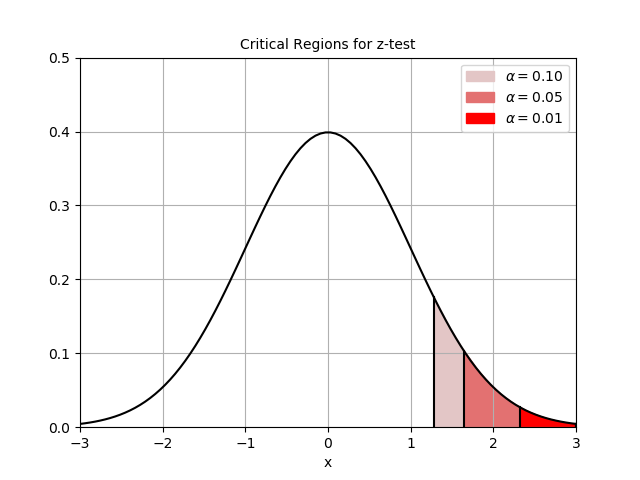
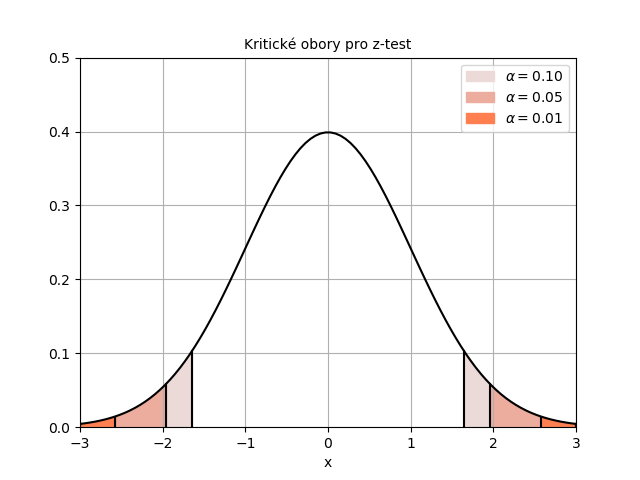
Update of colours

diff --git a/statistical_hypothesis_testing/plots/plots_z_test.py b/statistical_hypothesis_testing/plots/plots_z_test.py
@@ -11,7 +11,7 @@ def create_critical_region_plot(alphas=[0.05, ], tails=Tail.TWO_TAILED, x_min=-3
     alphas = sorted(alphas, reverse=True)
     x_max = x_min * (-1)
 
-    red = Color("red")
+    red = Color("#FF7F50")
     colors = list(red.range_to(Color("white"),len(alphas)+1))
     alphas_with_colors = [(alphas[i], colors[-i-2]) for i in range(0, len(alphas))] 
 
@@ -50,13 +50,13 @@ def create_critical_region_plot(alphas=[0.05, ], tails=Tail.TWO_TAILED, x_min=-3
     plt.xlim(x_min,x_max)
     plt.ylim(0,y_max)
 
-    plt.title('Critical Regions for z-test',fontsize=10)
+    plt.title('Kritické obory pro z-test',fontsize=10)
     plt.xlabel('x')
 
     plt.savefig("z_test_critical_region.png")
     plt.show()
 
-def create_p_value_plot(statistics,alpha=0.05, tails=Tail.TWO_TAILED, x_min=-3, y_max=0.5):
+def create_p_value_plot(statistics,alpha=0.05, tails=Tail.TWO_TAILED, x_min=-3, y_max=0.5, lang='en'):
     x_max = x_min * (-1)
 
     x = np.linspace(x_min, x_max, 100)
@@ -75,32 +75,35 @@ def create_p_value_plot(statistics,alpha=0.05, tails=Tail.TWO_TAILED, x_min=-3, 
 
         plt.fill_between(ptx, pty, facecolor=color, alpha='1.0', hatch=hatch, edgecolor=edgecolor)
 
-
-    legend_patches = []
-
     if tails == Tail.TWO_TAILED:
-        generate_area(x_min, norm.ppf(alpha/2), 'red')
-        generate_area(norm.ppf(1 - alpha/2), x_max, 'red')
-        generate_area(x_min, -abs(statistics), 'none', hatch='///', edgecolor='blue')
-        generate_area(abs(statistics), x_max, 'none', hatch='///', edgecolor='blue')
+        generate_area(x_min, norm.ppf(alpha/2), '#FF7F50')
+        generate_area(norm.ppf(1 - alpha/2), x_max, '#FF7F50')
+        generate_area(x_min, -abs(statistics), 'none', hatch='///', edgecolor='#5B84B1FF')
+        generate_area(abs(statistics), x_max, 'none', hatch='///', edgecolor='#5B84B1FF')
     elif tails == Tail.LEFT_TAILED:
-        generate_area(x_min, norm.ppf(alpha), 'red')
-        generate_area(x_min, statistics, 'none', hatch='///', edgecolor='blue')
+        generate_area(x_min, norm.ppf(alpha), '#FF7F50')
+        generate_area(x_min, statistics, 'none', hatch='///', edgecolor='#5B84B1FF')
     elif tails == Tail.RIGHT_TAILED:
-        generate_area(norm.ppf(1 - alpha), x_max, 'red')
-        generate_area(statistics, x_max, 'none', hatch='///', edgecolor='blue')
+        generate_area(norm.ppf(1 - alpha), x_max, '#FF7F50')
+        generate_area(statistics, x_max, 'none', hatch='///', edgecolor='#5B84B1FF')
 
-    legend_patches.append(mpatches.Patch(color='red', label='Critical Region'.format(alpha)))
-    legend_patches.append(mpatches.Patch(color='blue', label='p-value'.format(alpha)))
-
-    plt.legend(handles=legend_patches)
+    
 
     plt.grid()
 
     plt.xlim(x_min,x_max)
     plt.ylim(0,y_max)
 
-    plt.title('p-value of z-test',fontsize=10)
+    legend_patches = []
+    if lang == 'en':
+        plt.title('p-value of z-test',fontsize=10)
+        legend_patches.append(mpatches.Patch(color='#FF7F50', label='Critical Region'.format(alpha)))
+        legend_patches.append(mpatches.Patch(color='#5B84B1FF', label='p-value'.format(alpha)))
+    elif lang == 'cs':
+        plt.title('p-hodnota z-test',fontsize=10)
+        legend_patches.append(mpatches.Patch(color='#FF7F50', label='Kritický obor'.format(alpha)))
+        legend_patches.append(mpatches.Patch(color='#5B84B1FF', label='p-hodnota'.format(alpha)))
+    plt.legend(handles=legend_patches)
     plt.xlabel('x')
 
     plt.savefig("z_test_p_value.png")

diff --git a/main.py b/main.py
@@ -2,4 +2,5 @@ from statistical_hypothesis_testing.plots import plots_z_test
 from statistical_hypothesis_testing.tails import Tail
 
 
-plots_z_test.create_p_value_plot(-0.2269, alpha=0.05, tails=Tail.RIGHT_TAILED)
+#plots_z_test.create_critical_region_plot(alphas=[0.1, 0.05, 0.01])
+plots_z_test.create_p_value_plot(-1.2125,alpha=0.05,lang='cs')
